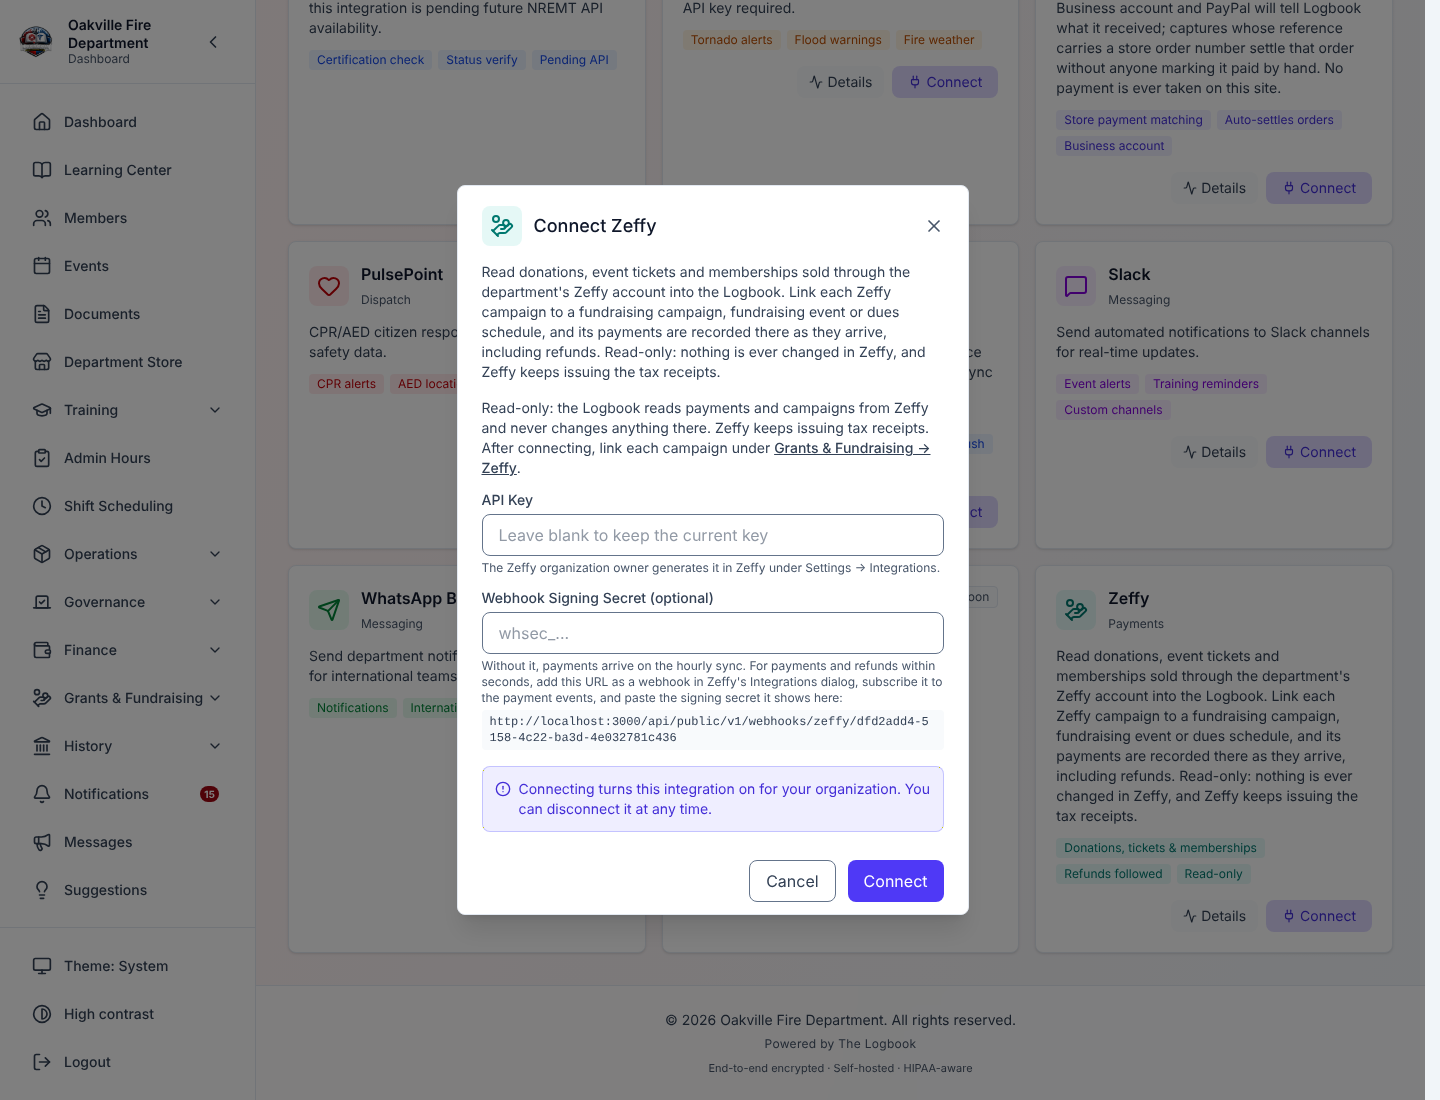
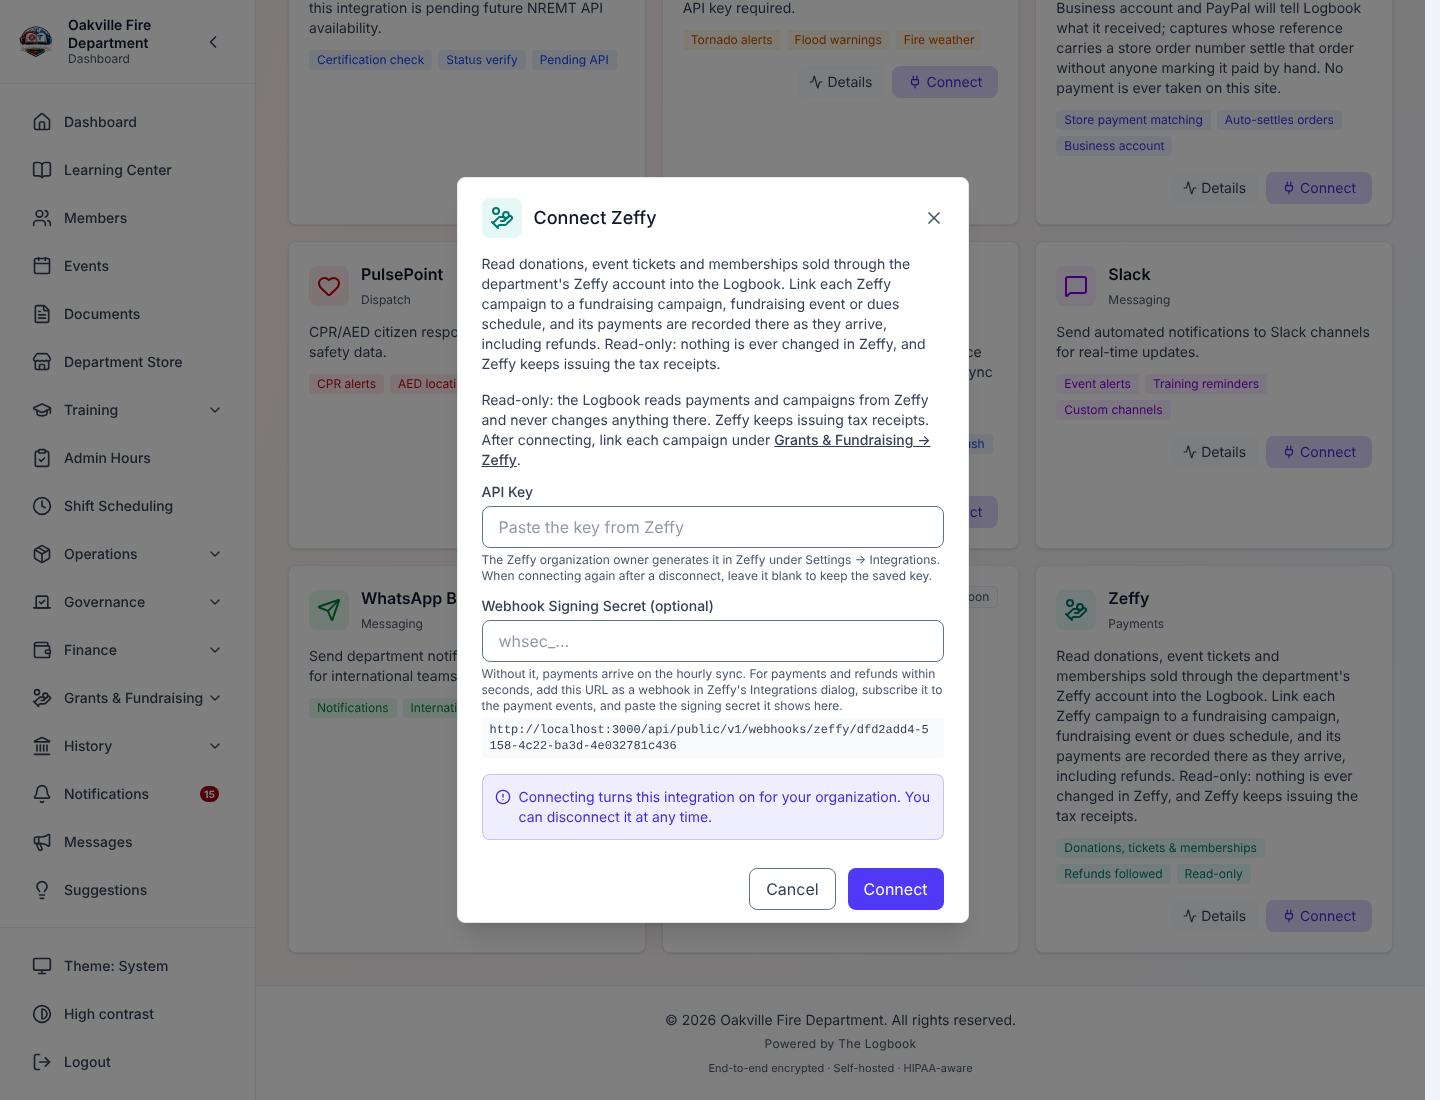
Re-shoot the Zeffy connect dialog with its corrected wording
16-24-zeffy-connect was captured before #4268 changed the API Key box
from "Leave blank to keep the current key" to "Paste the key from
Zeffy", with a note that a blank box keeps the saved key only when
connecting again after a disconnect. Re-captured from main at 71bfff68
with the same manifest entry; the guide's alt text still describes it.

Claude-Session: https://claude.ai/code/session_01Tku43B6su7WKAZ4WRiBmC6

Changed region(s): [[0.3125, 0.1545, 0.6875, 0.68], [0.3125, 0.7727, 0.6562, 0.8655], [0.3438, 0.7109, 0.6562, 0.7727]]

diff --git a/docs/training/SCREENSHOT_CURRENCY.md b/docs/training/SCREENSHOT_CURRENCY.md
@@ -229,6 +229,12 @@ Annual Member Dues. The link dialog's choice of campaign comes from the real
 API. A change to `app/schemas/zeffy.py` or to the page's statuses needs the mock
 updated before these three images are re-shot.
 
+**`16-24-zeffy-connect` re-shot the same day**, from `main` at `71bfff68`, after
+#4268 corrected the dialog's wording: the API Key box now reads "Paste the key
+from Zeffy", and the note beneath it says a blank box keeps the saved key only
+when connecting again after a disconnect. The new **Settings** dialog on a
+connected Zeffy card (#4268) is not pictured.
+
 ## The October 16 – November 1 queues, captured 2026-11-02
 
 Every queue from the October 16 – 18 pass to the October 31 – November 1 pass
